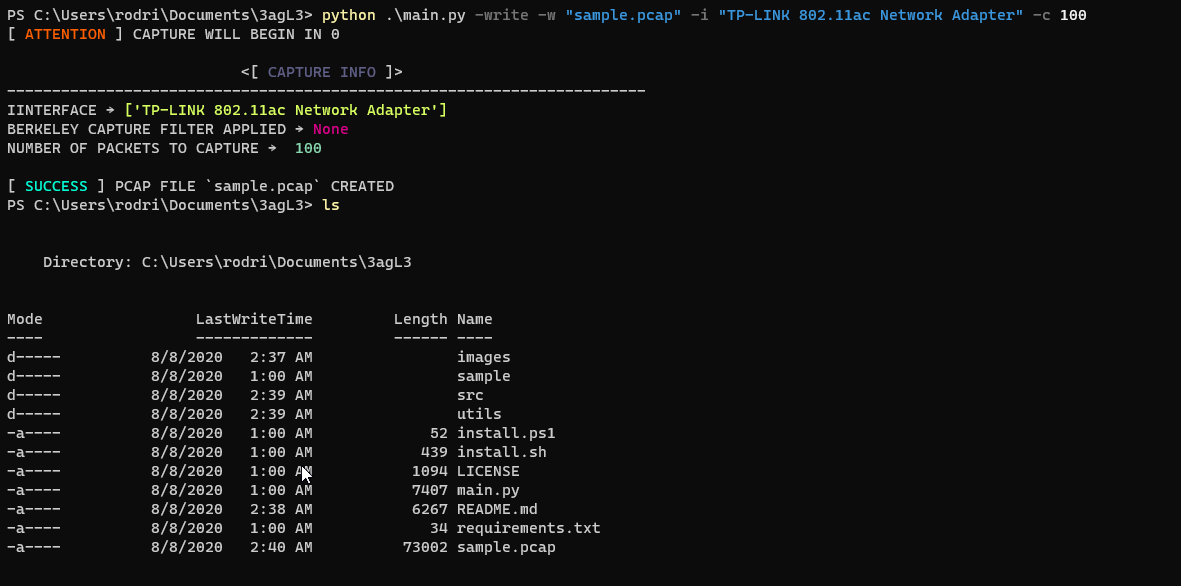
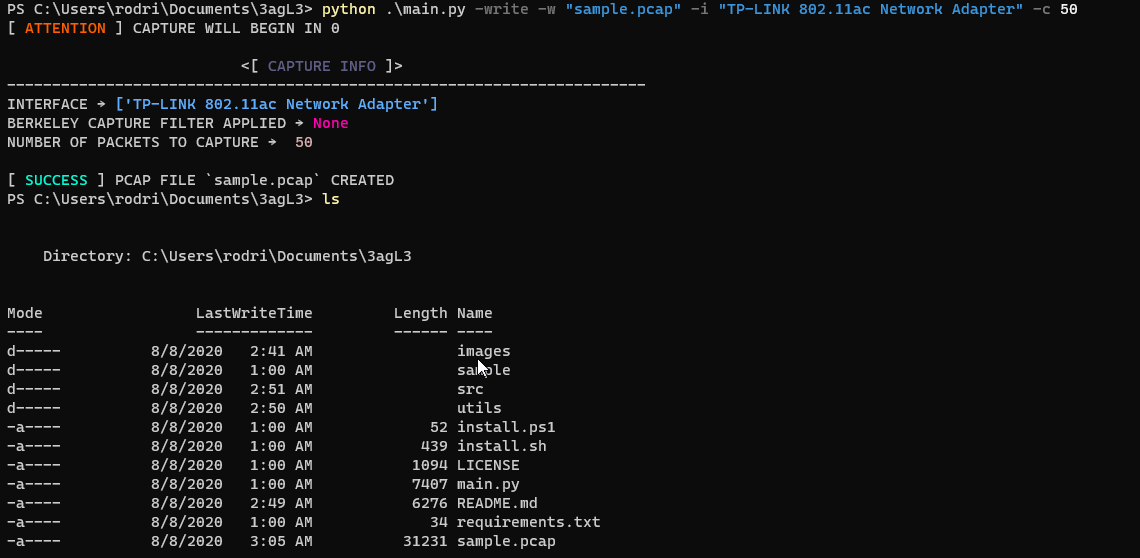
updating 3agL3

diff --git a/src/write_pcap.py b/src/write_pcap.py
@@ -129,7 +129,7 @@ class WritePCAP(NetSniff):
             sleep(1)
         print("\n\t\t\t  <[ %sCAPTURE INFO%s ]>" % (fg(60), attr(0)))
         print("-"*71)
-        print("IINTERFACE \u2192 %s%s%s" % (fg(randint(50, 200)), self.interf, attr(0)))
+        print("INTERFACE \u2192 %s%s%s" % (fg(randint(50, 200)), self.interf, attr(0)))
         print("BERKELEY CAPTURE FILTER APPLIED \u2192 %s%s%s" % (fg(randint(50, 200)), self.berkeley_filter, attr(0)))
         print("NUMBER OF PACKETS TO CAPTURE \u2192  %s%s%s" % (fg(randint(50, 200)), self.count, attr(0)))
         self._capture = super().capture(print_stdout=False)
